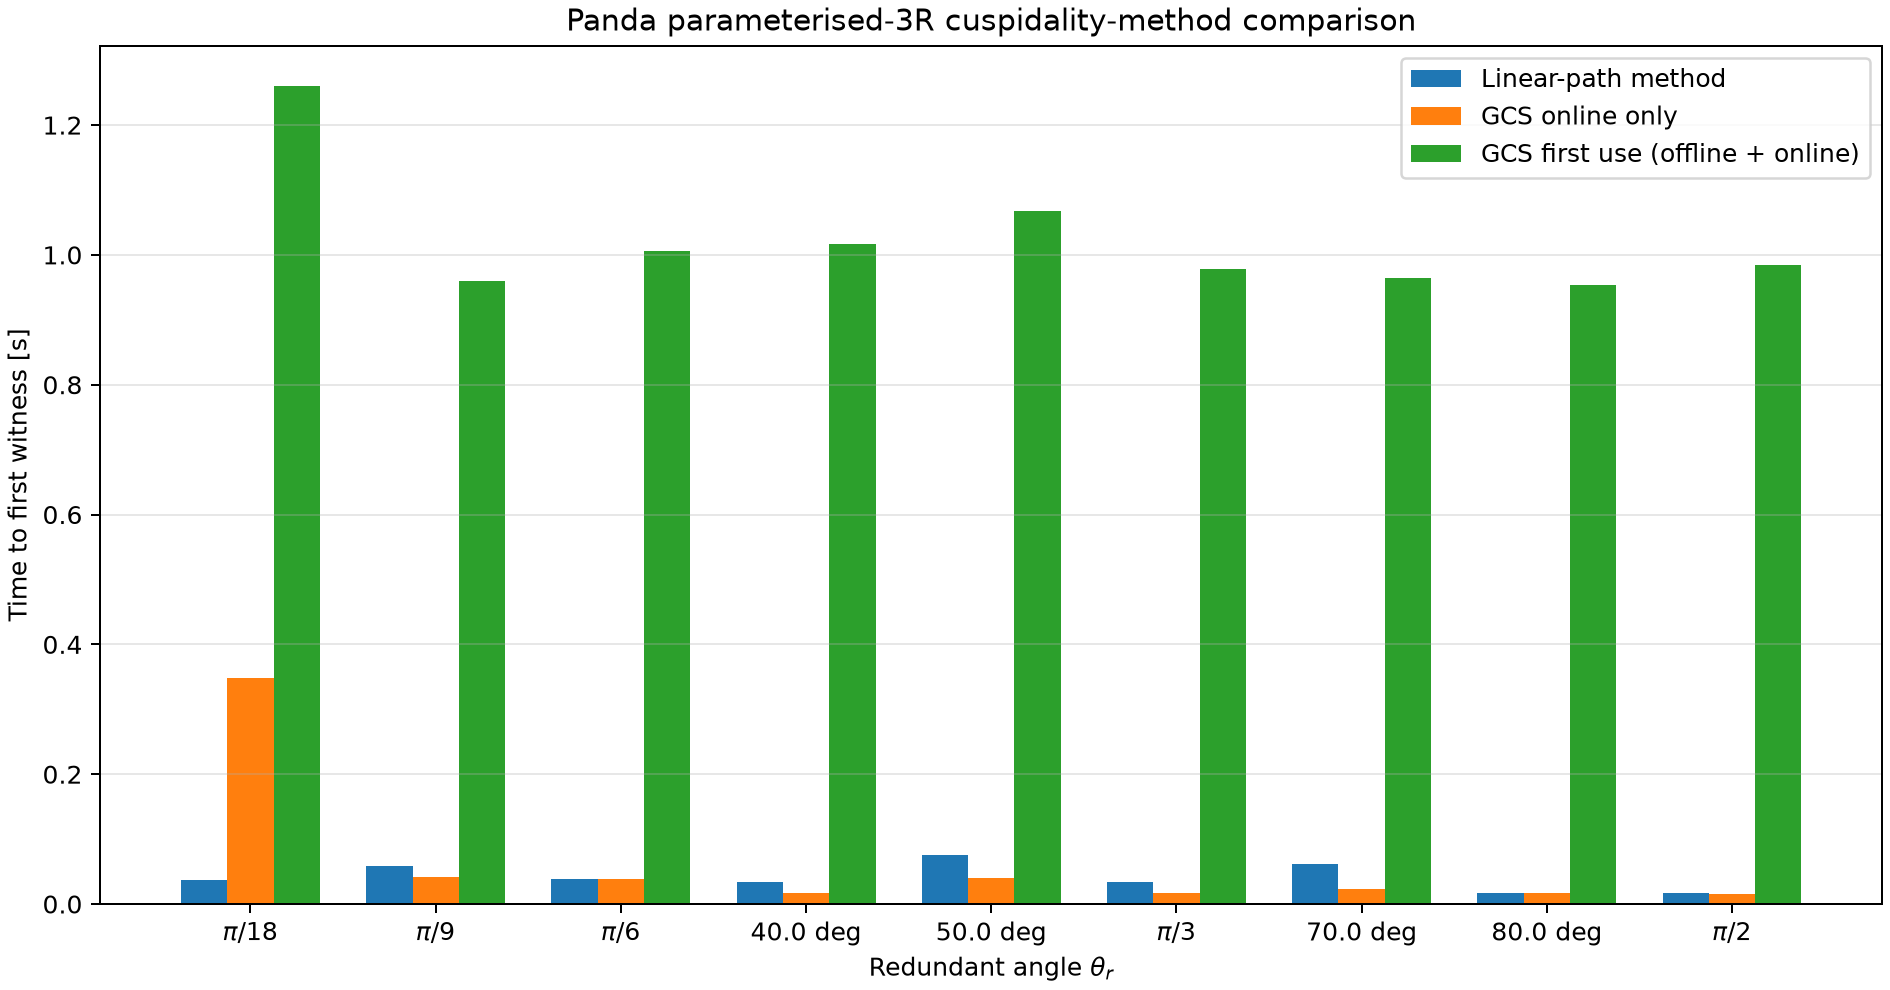
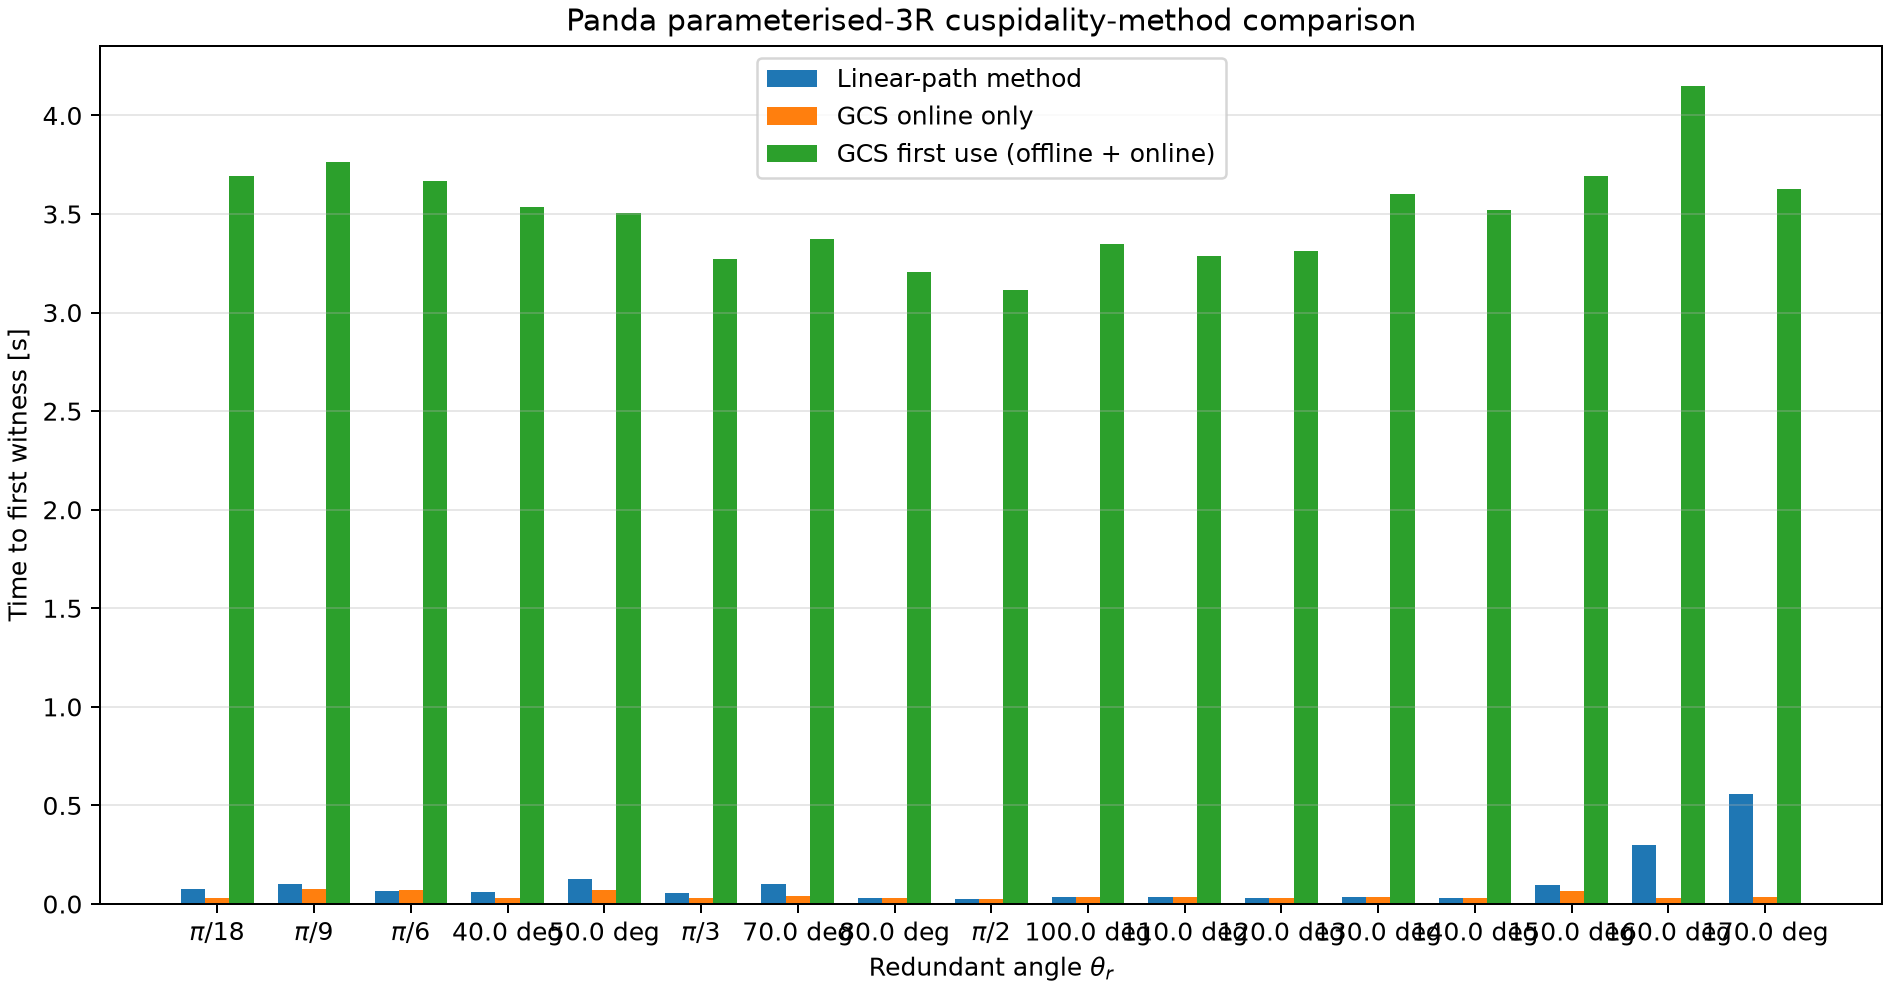
update Panda results

Changed region(s): [[0.0937, 0.0606, 0.9989, 0.9697], [0.4058, 0.0606, 0.6556, 0.1818], [0.0312, 0.3939, 0.0624, 0.4242]]

diff --git a/7R/identification/compare_panda_cuspidality_methods.py b/7R/identification/compare_panda_cuspidality_methods.py
@@ -1576,7 +1576,7 @@ def build_argument_parser() -> argparse.ArgumentParser:
     parser.add_argument("--lift-radius", type=int, default=1)
     parser.add_argument("--linear-cert-depth", type=int, default=16)
     parser.add_argument("--no-linear-certificate", action="store_true")
-    parser.add_argument("--gcs-depth", type=int, default=9)
+    parser.add_argument("--gcs-depth", type=int, default=10)
     parser.add_argument("--det-margin", type=float, default=1e-7)
     parser.add_argument("--target-det-margin", type=float, default=1e-4)
     parser.add_argument("--validation-samples", type=int, default=50)
